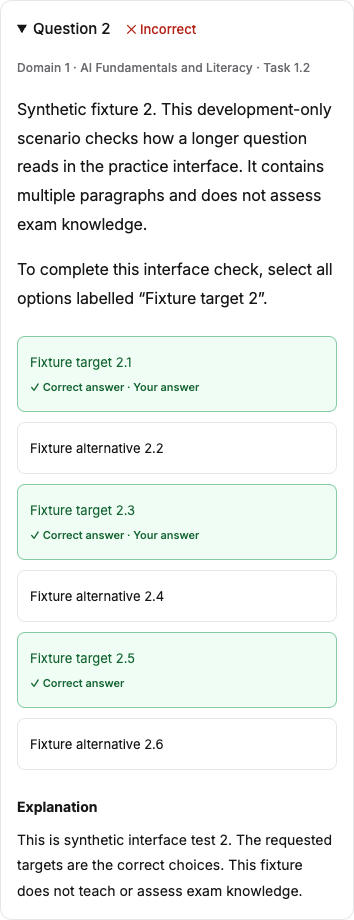
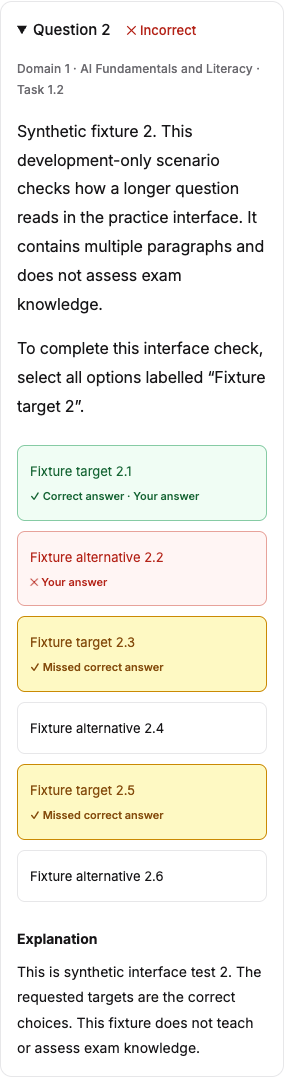
Refine completion exits and missed multiple-response feedback

Changed region(s): [[0.0282, 0.0, 0.9577, 0.8217], [0.0563, 0.8522, 0.9296, 1.0]]

diff --git a/tests/e2e/practice.spec.ts b/tests/e2e/practice.spec.ts
@@ -55,8 +55,18 @@ test('a visitor completes ten unique questions, sees feedback and results, and r
   await expect(
     page.getByRole('heading', { name: 'Practice complete' }),
   ).toBeVisible();
+  await expect(
+    page.getByRole('button', { name: 'End practice', exact: true }),
+  ).toBeVisible();
   await expect(page.locator('.score')).toHaveText('100%');
   await expect(page.getByLabel('Session counts')).toContainText('Attempted10');
+  if (testInfo.project.name === 'mobile')
+    await page.setViewportSize({ width: 320, height: 900 });
+  expect(
+    await page.evaluate(
+      () => document.documentElement.scrollWidth <= window.innerWidth,
+    ),
+  ).toBe(true);
   await page.screenshot({
     path: testInfo.outputPath('results.png'),
     fullPage: true,
@@ -152,7 +162,7 @@ test('layout, incorrect feedback, keyboard focus, and leave warnings work', asyn
   ).toBeVisible();
 });
 
-test('multiple-response checkboxes support empty rejection, all selections, locked feedback, and exact answers', async ({
+test('multiple-response checkboxes support empty rejection, all selections, missed answers, locked feedback, and exact answers', async ({
   page,
 }, testInfo) => {
   await page.addInitScript(() => {
@@ -216,18 +226,72 @@ test('multiple-response checkboxes support empty rejection, all selections, lock
     await page
       .getByRole('button', { name: 'Next question', exact: true })
       .click();
-    for (const answer of await page
-      .getByRole(index % 2 ? 'checkbox' : 'radio', { name: /Fixture target/ })
-      .all())
-      await answer.check();
+    if (index === 3) {
+      await boxes.nth(0).check();
+      await boxes.nth(1).check();
+    } else {
+      for (const answer of await page
+        .getByRole(index % 2 ? 'checkbox' : 'radio', { name: /Fixture target/ })
+        .all())
+        await answer.check();
+    }
     await page.getByRole('button', { name: 'Submit answer' }).click();
     await expect(
-      page.getByRole('heading', { name: 'Correct', exact: true }),
+      page.getByRole('heading', {
+        name: index === 3 ? 'Incorrect' : 'Correct',
+        exact: true,
+      }),
     ).toBeVisible();
+    if (index === 3) {
+      const cards = page.locator('.answer-card');
+      await expect(cards.nth(4)).toContainText('Missed correct answer');
+      await expect(cards.nth(4)).toHaveCSS(
+        'background-color',
+        'rgb(254, 249, 195)',
+      );
+      await expect(cards.nth(0)).toHaveCSS(
+        'background-color',
+        'rgb(240, 253, 244)',
+      );
+      await expect(cards.nth(1)).toHaveCSS(
+        'background-color',
+        'rgb(255, 245, 244)',
+      );
+      await expect(cards.nth(5)).toHaveCSS(
+        'background-color',
+        'rgb(255, 255, 255)',
+      );
+      await expect(
+        page.getByRole('heading', { name: 'Incorrect', exact: true }),
+      ).toHaveCSS('color', 'rgb(180, 35, 24)');
+      for (const box of await boxes.all()) await expect(box).toBeDisabled();
+      await expect(page.getByRole('checkbox', { checked: true })).toHaveCount(
+        2,
+      );
+      if (testInfo.project.name === 'mobile')
+        await page.setViewportSize({ width: 320, height: 900 });
+      expect(
+        await page.evaluate(
+          () => document.documentElement.scrollWidth <= window.innerWidth,
+        ),
+      ).toBe(true);
+      await page.screenshot({
+        path: testInfo.outputPath('partial-multiple-feedback.png'),
+        fullPage: true,
+        scale: 'css',
+      });
+    }
   }
   await page.getByRole('button', { name: 'See results', exact: true }).click();
-  await expect(page.locator('.score')).toHaveText('90%');
-  await expect(page.getByLabel('Session counts')).toContainText('Incorrect1');
+  await expect(page.locator('.score')).toHaveText('80%');
+  await expect(page.getByLabel('Session counts')).toContainText('Incorrect2');
+  await page.getByRole('button', { name: 'End practice', exact: true }).click();
+  await expect(
+    page.getByRole('heading', {
+      name: 'Your next practice session',
+      exact: true,
+    }),
+  ).toBeFocused();
 });
 
 test('a visitor can configure every Practice scope and size with actual availability', async ({

diff --git a/tests/e2e/exam-review.spec.ts b/tests/e2e/exam-review.spec.ts
@@ -17,7 +17,7 @@ test('submitted review preserves every answer subset and unanswered item, then s
     .getByRole('button', { name: 'Next question', exact: true })
     .click();
   await page.getByRole('checkbox').nth(0).check();
-  await page.getByRole('checkbox').nth(2).check();
+  await page.getByRole('checkbox').nth(1).check();
   await page
     .getByRole('button', { name: 'Next question', exact: true })
     .click();
@@ -41,6 +41,9 @@ test('submitted review preserves every answer subset and unanswered item, then s
 
   await expect(
     page.getByRole('heading', { name: 'Answer review', exact: true }),
+  ).toBeVisible();
+  await expect(
+    page.getByRole('button', { name: 'End exam', exact: true }),
   ).toBeVisible();
   const review = page.getByRole('region', {
     name: 'Answer review',
@@ -79,8 +82,30 @@ test('submitted review preserves every answer subset and unanswered item, then s
     items
       .nth(1)
       .locator('.review-option')
-      .filter({ hasText: 'Correct answer' }),
+      .filter({ hasText: /[Cc]orrect answer/ }),
   ).toHaveCount(3);
+  const partialOptions = items.nth(1).locator('.review-option');
+  await expect(partialOptions.nth(4)).toContainText('Missed correct answer');
+  await expect(partialOptions.nth(4)).toHaveCSS(
+    'background-color',
+    'rgb(254, 249, 195)',
+  );
+  await expect(partialOptions.nth(0)).toHaveCSS(
+    'background-color',
+    'rgb(240, 253, 244)',
+  );
+  await expect(partialOptions.nth(1)).toHaveCSS(
+    'background-color',
+    'rgb(255, 245, 244)',
+  );
+  await expect(partialOptions.nth(5)).toHaveCSS(
+    'background-color',
+    'rgba(0, 0, 0, 0)',
+  );
+  await expect(items.nth(1).locator('.review-outcome')).toHaveCSS(
+    'color',
+    'rgb(180, 35, 24)',
+  );
   await expect(items.nth(1)).toContainText('Task 1.2');
   await expect(items.nth(1)).toContainText(
     'This is synthetic interface test 2.',
@@ -99,6 +124,20 @@ test('submitted review preserves every answer subset and unanswered item, then s
   await expect(
     items.nth(2).locator('.review-option').filter({ hasText: 'Your answer' }),
   ).toHaveCount(0);
+  await expect(
+    items
+      .nth(2)
+      .locator('.review-option')
+      .filter({ hasText: 'Correct answer' }),
+  ).toHaveCSS('background-color', 'rgb(240, 253, 244)');
+  await items.nth(8).locator('summary').click();
+  await expect(items.nth(8).locator('summary')).toHaveText(
+    'Question 9 Unanswered',
+  );
+  await expect(items.nth(8)).toContainText('Your answer: Unanswered');
+  await expect(
+    items.nth(8).getByText('✓ Missed correct answer', { exact: true }),
+  ).toHaveCount(3);
   await items.first().locator('summary').click();
   await expect(
     items.first().getByRole('link', { name: /AWS exam guide/ }),
@@ -108,6 +147,13 @@ test('submitted review preserves every answer subset and unanswered item, then s
   );
   await expect(review.getByRole('radio')).toHaveCount(0);
   await expect(review.getByRole('checkbox')).toHaveCount(0);
+  expect(
+    await page.evaluate(
+      () => document.documentElement.scrollWidth <= window.innerWidth,
+    ),
+  ).toBe(true);
+  if (testInfo.project.name === 'mobile')
+    await page.setViewportSize({ width: 320, height: 900 });
   expect(
     await page.evaluate(
       () => document.documentElement.scrollWidth <= window.innerWidth,
@@ -139,9 +185,7 @@ test('submitted review preserves every answer subset and unanswered item, then s
   page.once('dialog', (dialog) => dialog.accept());
   await page.getByRole('button', { name: 'Submit exam', exact: true }).click();
   await expect(page.getByLabel('Session counts')).toContainText('Unanswered20');
-  await page
-    .getByRole('button', { name: 'Change configuration', exact: true })
-    .click();
+  await page.getByRole('button', { name: 'End exam', exact: true }).click();
   await expect(
     page.getByRole('heading', { name: 'Your next exam session', exact: true }),
   ).toBeFocused();

diff --git a/src/scripts/render-exam.ts b/src/scripts/render-exam.ts
@@ -66,7 +66,7 @@ export function renderExam(
         .join('')}
     </section>
     <p class="result-footnote">Each question has equal weight. Unanswered questions earn zero. Multiple-response questions require the exact correct set, with no partial credit. Percentages include unanswered questions and are rounded to one decimal where needed. This is a practice result, not an AWS scaled score or a prediction of passing.</p>
-    <div class="question-actions"><button class="button primary" data-action="restart-exam">Exam again <span aria-hidden="true">↻</span></button><button class="button" data-action="configure-exam">Change configuration</button></div>
+    <div class="question-actions"><button class="button primary" data-action="restart-exam">Exam again <span aria-hidden="true">↻</span></button><button class="button" data-action="configure-exam">End exam</button></div>
   </div>
   <section class="exam-review" aria-labelledby="exam-review-heading">
     <h2 id="exam-review-heading">Answer review</h2>
@@ -93,7 +93,8 @@ export function renderExam(
           .map((option, optionIndex) => {
             const selected = item.selectedOptionIds.includes(option.id);
             const correct = question.correctOptionIds.includes(option.id);
-            return `<li class="review-option${correct ? ' correct-answer' : selected ? ' wrong-answer' : ''}"><span class="answer-letter" aria-hidden="true">${String.fromCharCode(65 + optionIndex)}</span><span class="answer-text">${escape(option.text)}${correct || selected ? `<span class="answer-status">${correct ? '✓ Correct answer' : ''}${correct && selected ? ' · ' : ''}${selected ? `${correct ? '' : '✕ '}Your answer` : ''}</span>` : ''}</span></li>`;
+            const missed = question.type === 'multiple' && correct && !selected;
+            return `<li class="review-option${missed ? ' missed-answer' : correct ? ' correct-answer' : selected ? ' wrong-answer' : ''}"><span class="answer-letter" aria-hidden="true">${String.fromCharCode(65 + optionIndex)}</span><span class="answer-text">${escape(option.text)}${correct || selected ? `<span class="answer-status">${missed ? '✓ Missed correct answer' : correct ? '✓ Correct answer' : ''}${correct && selected ? ' · ' : ''}${selected ? `${correct ? '' : '✕ '}Your answer` : ''}</span>` : ''}</span></li>`;
           })
           .join('')}</ul>
         <div class="review-explanation"><h4>Explanation</h4><p>${escape(question.explanation)}</p>${question.references?.length ? `<h4>AWS references</h4><ul>${question.references.map((reference) => `<li><a href="${escape(reference.url)}" target="_blank" rel="noopener noreferrer">${escape(reference.title)} <span class="sr-only">(opens in a new tab)</span></a></li>`).join('')}</ul>` : ''}</div>

diff --git a/src/scripts/render-session.ts b/src/scripts/render-session.ts
@@ -49,7 +49,7 @@ export function renderSession(
         </tbody></table></div>
       </section>
       <p class="result-footnote">Each question has equal weight. This is a practice result, not an AWS scaled score or a prediction of passing.</p>
-      <div class="question-actions"><button class="button primary" data-action="restart">Practice again <span aria-hidden="true">↻</span></button><button class="button" data-action="configure">Change configuration</button></div>
+      <div class="question-actions"><button class="button primary" data-action="restart">Practice again <span aria-hidden="true">↻</span></button><button class="button" data-action="configure">End practice</button></div>
     </div>`;
   }
 
@@ -79,15 +79,21 @@ export function renderSession(
             .map((option, index) => {
               const selected = current.selectedOptionIds.includes(option.id);
               const correct = question.correctOptionIds.includes(option.id);
+              const missed =
+                question.type === 'multiple' && correct && !selected;
               const label = submitted
                 ? [
-                    correct ? 'Correct answer' : '',
+                    missed
+                      ? 'Missed correct answer'
+                      : correct
+                        ? 'Correct answer'
+                        : '',
                     selected ? 'Your answer' : '',
                   ]
                     .filter(Boolean)
                     .join(' · ')
                 : '';
-              return `<label class="answer-card${submitted && correct ? ' correct-answer' : submitted && selected ? ' wrong-answer' : ''}">
+              return `<label class="answer-card${submitted && missed ? ' missed-answer' : submitted && correct ? ' correct-answer' : submitted && selected ? ' wrong-answer' : ''}">
               <input type="${question.type === 'multiple' ? 'checkbox' : 'radio'}" name="answer" value="${escape(option.id)}" ${selected ? 'checked' : ''} ${submitted ? 'disabled' : ''} />
               <span class="answer-letter" aria-hidden="true">${String.fromCharCode(65 + index)}</span><span class="answer-text">${escape(option.text)}${label ? `<span class="answer-status">${correct ? checkIcon : crossIcon}${label}</span>` : ''}</span>
             </label>`;

diff --git a/src/styles/global.css b/src/styles/global.css
@@ -36,6 +36,9 @@
   --incorrect: #b42318;
   --incorrect-surface: #fff5f4;
   --incorrect-border: #e7a29a;
+  --missed: #854d0e;
+  --missed-surface: #fef9c3;
+  --missed-border: #ca8a04;
   --radius: 20px;
   --shadow: 0 2px 4px rgb(23 22 24 / 2%), 0 8px 24px rgb(23 22 24 / 3%);
   --display:
@@ -720,6 +723,10 @@ fieldset {
   border-color: var(--correct-border);
   background: var(--correct-surface);
 }
+.answer-card.missed-answer {
+  border-color: var(--missed-border);
+  background: var(--missed-surface);
+}
 .answer-card.wrong-answer {
   border-color: var(--incorrect-border);
   background: var(--incorrect-surface);
@@ -728,9 +735,16 @@ fieldset {
 .correct-answer .answer-letter {
   color: var(--correct);
 }
+.missed-answer .answer-status,
+.missed-answer .answer-letter {
+  color: var(--missed);
+}
 .wrong-answer .answer-status,
 .wrong-answer .answer-letter {
   color: var(--incorrect);
+}
+.answer-card.missed-answer input {
+  border-color: var(--missed);
 }
 .answer-card.correct-answer input {
   border-color: var(--correct);
@@ -1394,6 +1408,11 @@ fieldset {
   color: var(--correct);
   border-color: var(--correct-border);
   background: var(--correct-surface);
+}
+.review-option.missed-answer {
+  color: var(--missed);
+  border-color: var(--missed-border);
+  background: var(--missed-surface);
 }
 .review-option.wrong-answer {
   color: var(--incorrect);

diff --git a/docs/design.md b/docs/design.md
@@ -2,8 +2,10 @@
 
 A light, ink-on-white study workspace. Inspired by Cycle's strong typography and
 soft surfaces, with the restraint of shadcn controls. Use white, near-black, and
-neutral grays for the interface. Reserve green and red for correct and incorrect
-answer feedback; keep check/cross markers and text alongside color.
+neutral grays for the interface. Reserve green, red, and yellow for answer
+feedback: correct selections, incorrect selections, and missed correct
+multiple-response options. Keep markers and text
+alongside color.
 
 ## Foundation
 
@@ -17,6 +19,7 @@ answer feedback; keep check/cross markers and text alongside color.
 | Control borders          | `#d1d1d5`                          |
 | Correct answer text      | `#166534` on `#f0fdf4`             |
 | Incorrect answer text    | `#b42318` on `#fff5f4`             |
+| Missed answer text       | `#854d0e` on `#fef9c3`             |
 | Display face             | Plus Jakarta Sans, 700–800         |
 | Body and UI face         | Inter, 400–600                     |
 | Cards                    | 20px radius; subtle neutral shadow |
@@ -43,14 +46,21 @@ files included. Edit the shared tokens and component styles in
 - Keep native form semantics and keyboard operation. Interactive controls get a
   visible ink focus ring. Programmatically focused reading headings do not get
   a control-style ring.
-- Distinguish correct answers with green borders and text, a pale green fill, and
-  a check. Mark an incorrect selected answer with red borders and text, a pale red
-  fill, and a cross.
-  Correctness must remain understandable without color.
+- In revealed Practice feedback and finalized Exam review, distinguish selected
+  correct options with green borders and text, a pale green fill, and a check.
+  Mark an incorrect selected option with red borders and text, a pale red fill,
+  and a cross. Mark unselected correct multiple-response options with yellow
+  borders, a pale yellow fill, dark readable text, and “Missed correct answer”.
+  Keep unselected incorrect options neutral and single-answer feedback unchanged.
+  Overall incorrect feedback and review summaries remain red; unanswered Exam
+  questions retain their separate Unanswered status. Correctness and missed
+  selections must remain understandable without color. Active Exams conceal all
+  answer feedback until finalized.
 - Use 17px regular-weight Inter for question text on desktop and 16px on mobile,
   with comfortable line height and blank-line paragraph spacing. Omit the extra
-  answer instruction. Label the active session's exit action End practice;
-  retain Change configuration on completed results.
+  answer instruction. Label the exit action End practice in Practice and End exam
+  in Exam, including completed results. Keep the existing exit/configuration action
+  and the separate Practice again or Exam again action.
 - Preserve white space, comfortable line height, and full-width controls on small
   screens. Avoid shrinking content to fit extra columns.
 

diff --git a/README.md b/README.md
@@ -32,6 +32,8 @@ Development preview using labelled synthetic interface fixtures:
 
 <img src="docs/screenshots/development-mobile-feedback.png" alt="Mobile Practice showing an incorrect answer, correct answer and explanation using synthetic interface fixtures" width="320" />
 
+<img src="docs/screenshots/development-mobile-multiple-feedback.png" alt="Practice multiple-response feedback at 320px with a selected correct option in green, a selected incorrect option in red, and missed correct options in yellow with text labels" width="320" />
+
 [View the all-domain results screen](docs/screenshots/development-all-domain-results.png).
 [View the single-column setup at 768px](docs/screenshots/development-wide-mobile-homepage.png).
 [View an active mobile Exam](docs/screenshots/development-exam-mobile.png) and
@@ -99,8 +101,9 @@ it locally. Do not deploy `.qa-dist/` as production.
 
 ## Architecture
 
-The interface uses an ink-on-white light theme with green/red answer feedback, self-hosted Inter and Plus
-Jakarta Sans. The [visual guide](docs/design.md) records the design tokens and
+The interface uses an ink-on-white light theme with green/red answer feedback and
+yellow missed correct multiple-response options, self-hosted Inter and Plus Jakarta
+Sans. The [visual guide](docs/design.md) records the design tokens and
 component conventions. Styling uses native Astro/CSS with shadcn-inspired controls.
 
 - `src/pages/index.astro`: meaningful static homepage HTML, metadata, domain
